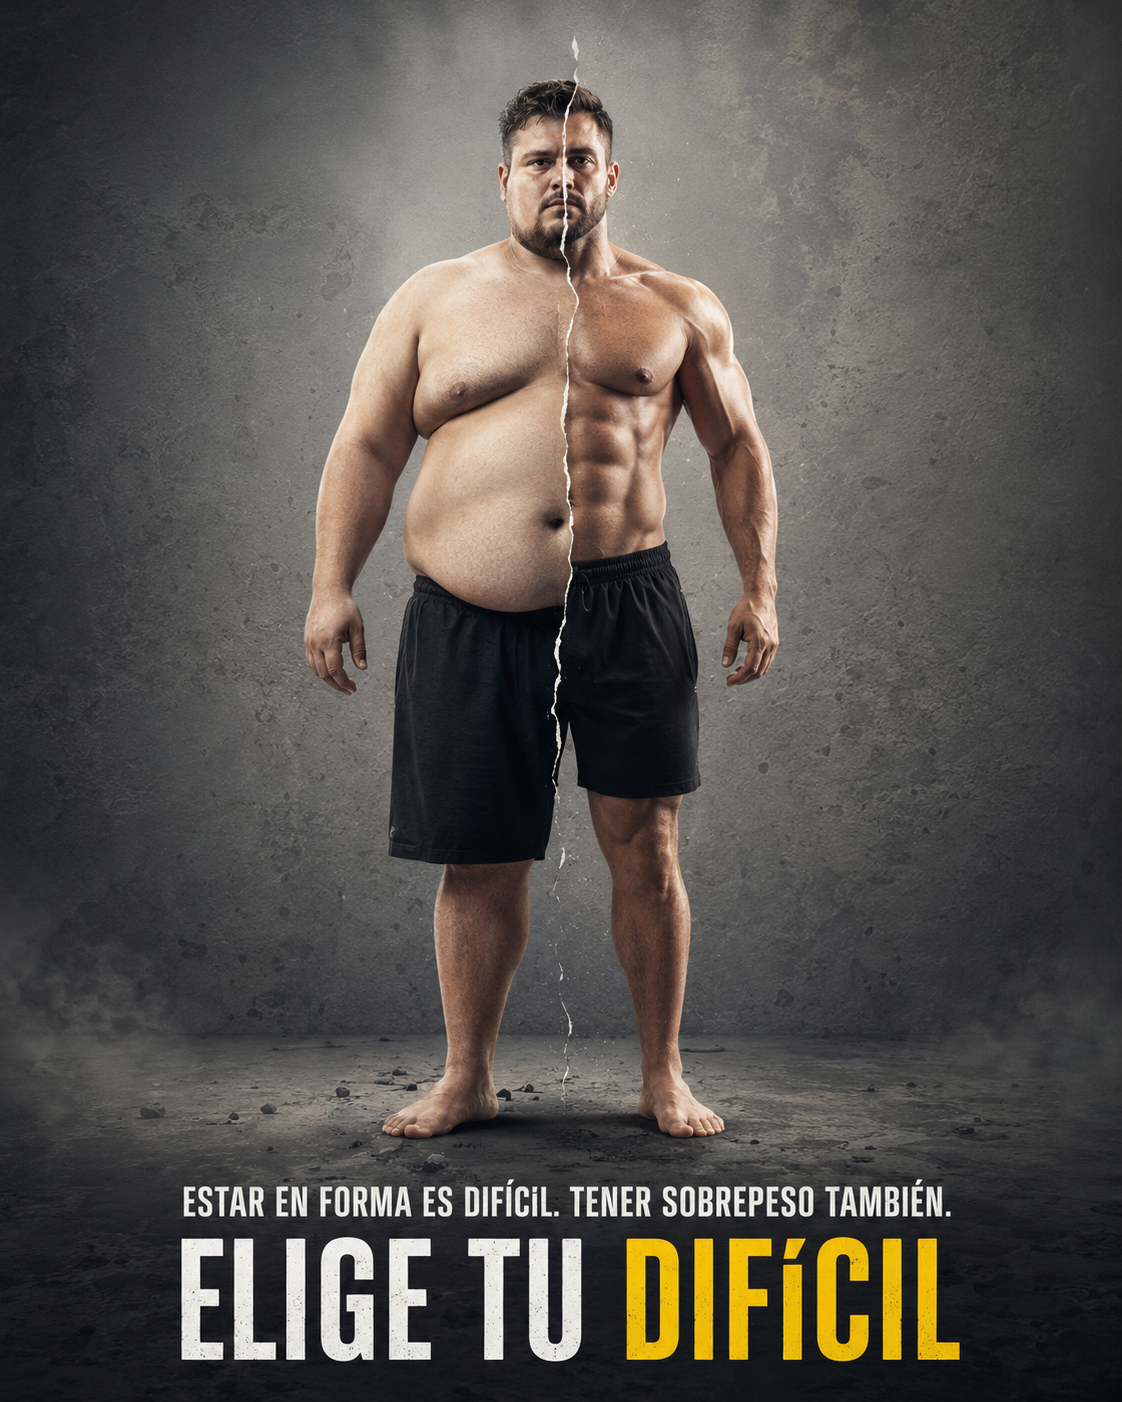
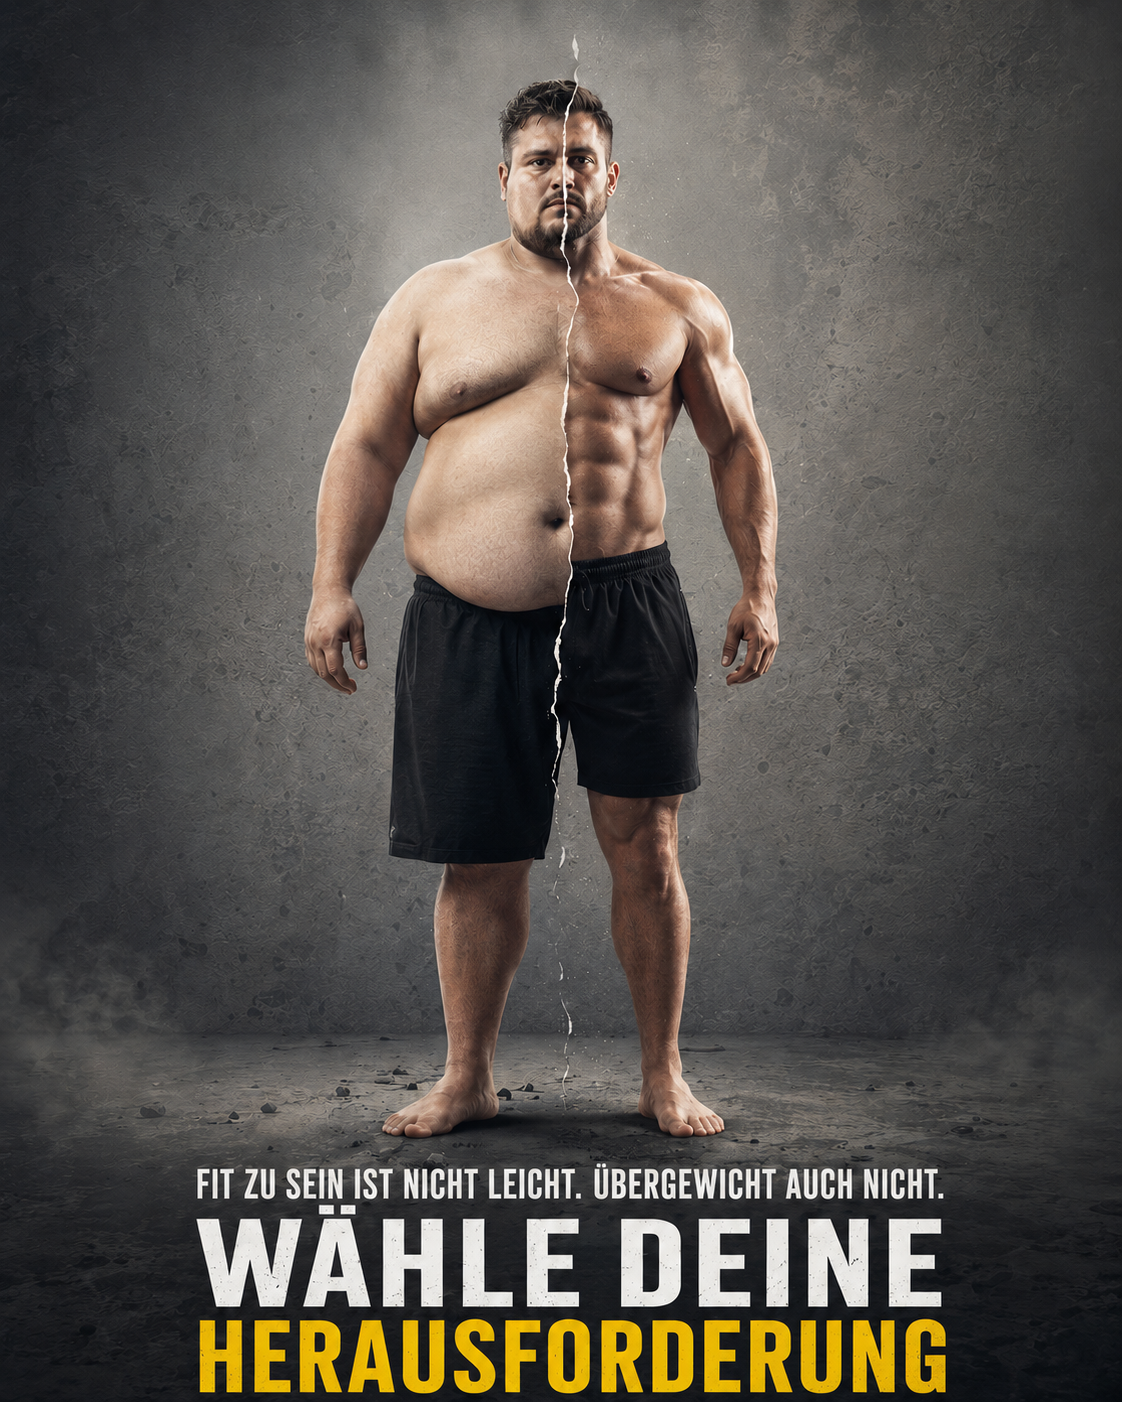
Imagen actualizada con texto en aleman + gradiente ajustado

diff --git a/css/styles.css b/css/styles.css
@@ -691,14 +691,14 @@ section { padding: 120px 0; }
   object-fit: cover;
   object-position: center 5%;
 }
-/* Gradiente que oculta el texto en español al pie */
+/* Gradiente lateral para blend con los paneles */
 .elige-img-wrap::after {
   content: '';
   position: absolute;
   inset: 0;
   background:
-    linear-gradient(to bottom, rgba(8,8,8,.5) 0%, transparent 30%, transparent 45%, rgba(8,8,8,.92) 78%, var(--black) 100%),
-    linear-gradient(to right, rgba(8,8,8,.7) 0%, transparent 20%, transparent 80%, rgba(8,8,8,.7) 100%);
+    linear-gradient(to bottom, rgba(8,8,8,.4) 0%, transparent 15%, transparent 100%),
+    linear-gradient(to right, rgba(8,8,8,.6) 0%, transparent 18%, transparent 82%, rgba(8,8,8,.6) 100%);
 }
 
 .elige-center > *:not(.elige-img-wrap) { position: relative; z-index: 1; }